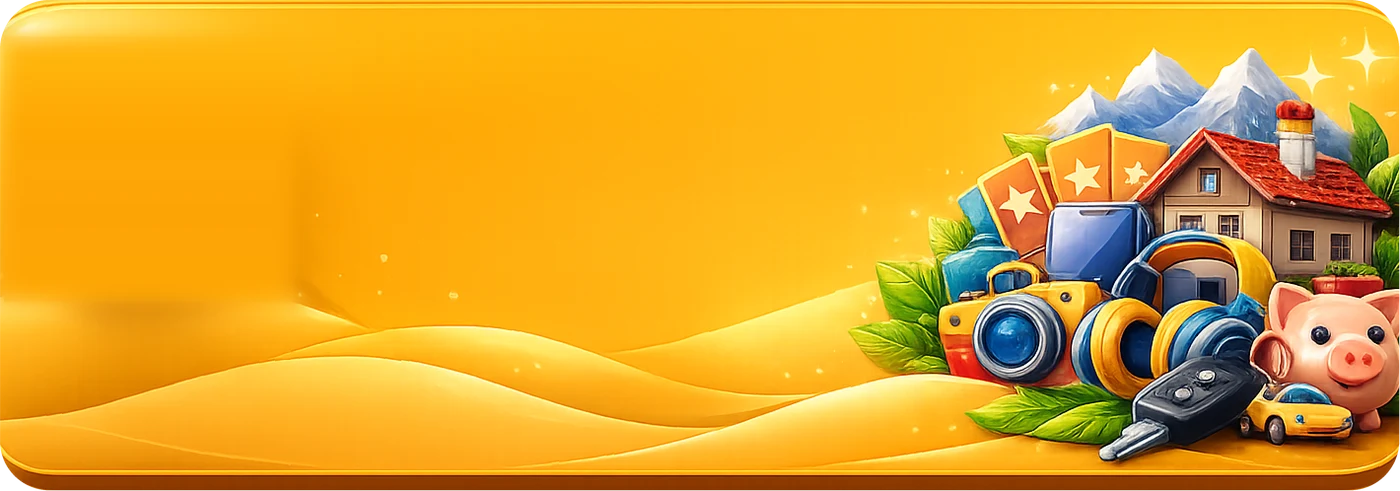
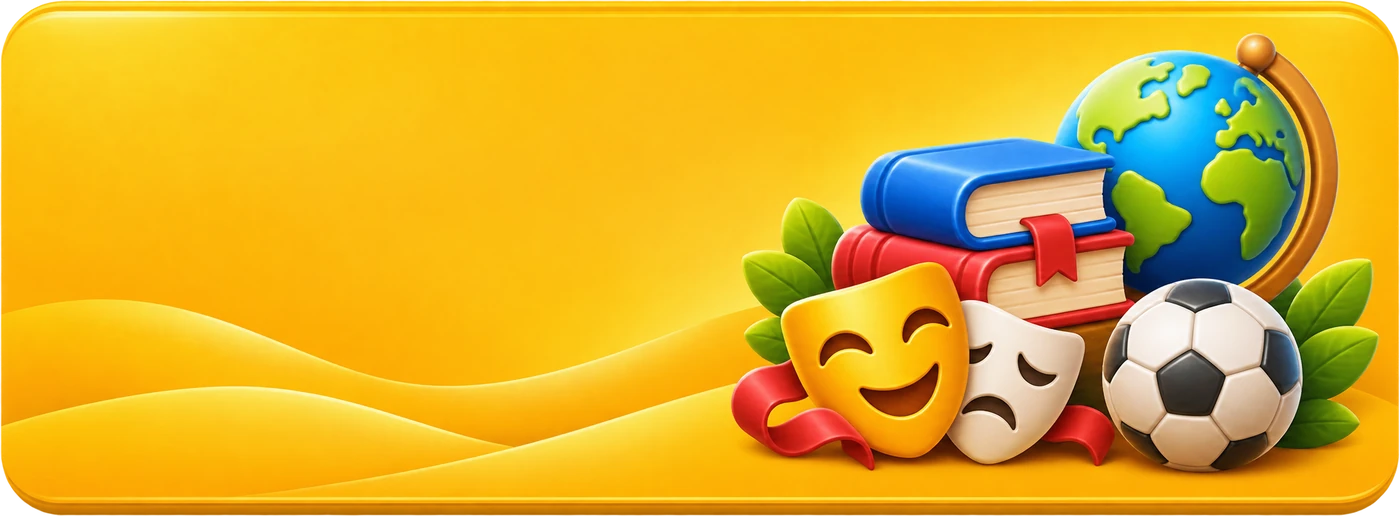
Neue Köpfe Alltag und Schweiz, Welt-Kopf weich, Spielwelt-Spiele im neuen Stil
Claude-Session: https://claude.ai/code/session_015F4ypguKCiePf7SvTB76p6

diff --git a/stil.js b/stil.js
@@ -910,16 +910,20 @@ html body #app .st-kopf.ep-kopf-welt{background:none!important;box-shadow:none!i
 html body #app .st-kopf.ep-kopf-welt::before{display:none!important}
 html body #app .st-kopf.ep-kopf-welt .st-kids{display:none!important}
 html body #app .st-kopf.ep-kopf-welt::after{content:"";position:absolute;right:20px;top:16px;bottom:16px;aspect-ratio:607/340;max-width:42%;z-index:0;pointer-events:none;
-  background:url("${G}kopf-welt-deko.webp?v=2") right center/contain no-repeat}
+  background:url("${G}kopf-welt-deko.webp?v=3") right center/contain no-repeat}
 html body #app .st-kopf.ep-kopf-welt>*{position:relative;z-index:1}
 html body #app .st-kopf.ep-kopf-natur{background:url("${G}kopf-natur.webp?v=1") right center/cover no-repeat!important;box-shadow:none!important;border:0!important;border-radius:28px!important;filter:drop-shadow(0 14px 22px rgba(10,90,50,.3));padding-right:30%!important}
 html body #app .st-kopf.ep-kopf-natur::before{display:none!important}
-html body #app .st-kopf.ep-kopf-geld{background:url("${G}kopf-geld.webp?v=1") right center/cover no-repeat!important;box-shadow:none!important;border:0!important;border-radius:28px!important;filter:drop-shadow(0 14px 22px rgba(120,10,20,.3));padding-right:30%!important}
+html body #app .st-kopf.ep-kopf-geld{background:url("${G}kopf-geld.webp?v=2") right center/cover no-repeat!important;box-shadow:none!important;border:0!important;border-radius:28px!important;filter:drop-shadow(0 14px 22px rgba(120,10,20,.3));padding-right:30%!important}
+html body #app .st-kopf.ep-kopf-geld :is(h1,h2,p){text-shadow:0 2px 4px rgba(100,0,10,.5)!important}
+@media (min-width:900px){html body #app .st-kopf:is(.ep-kopf-geld,.ep-kopf-alltag) .bhead h1{font-size:2.6rem!important}html body #app .st-kopf:is(.ep-kopf-geld,.ep-kopf-alltag) :is(.bhead h1,.bhead p,h1,p){max-width:50%!important}}
 html body #app .st-kopf.ep-kopf-geld::before,html body #app .st-kopf.ep-kopf-geld .st-kids{display:none!important}
 html body.ep-app #app .st-kopf.ep-kopf-geld{padding-right:24%!important;border-radius:20px!important}
-html body #app .st-kopf.ep-kopf-alltag{background:url("${G}kopf-alltag.webp?v=1") right center/cover no-repeat!important;box-shadow:none!important;border:0!important;border-radius:28px!important;filter:drop-shadow(0 14px 22px rgba(150,80,0,.3));padding-right:30%!important}
+html body #app .st-kopf.ep-kopf-alltag{background:url("${G}kopf-alltag.webp?v=2") right center/cover no-repeat!important;box-shadow:none!important;border:0!important;border-radius:28px!important;filter:drop-shadow(0 14px 22px rgba(150,80,0,.3));padding-right:30%!important}
 html body #app .st-kopf.ep-kopf-alltag::before,html body #app .st-kopf.ep-kopf-alltag .st-kids{display:none!important}
 html body #app .st-kopf.ep-kopf-alltag .bhead h1{text-shadow:0 2px 10px rgba(120,50,0,.45)!important}
+html body #app .st-kopf.ep-kopf-alltag :is(h1,h2,p,.bhead p){text-shadow:0 2px 3px rgba(110,50,0,.55),0 0 14px rgba(150,70,0,.35)!important}
+@media (min-width:900px){html body #app .st-kopf.ep-kopf-alltag html body #app .st-kopf.ep-kopf-alltag .bhead p{max-width:54%!important}}
 html body.ep-app #app .st-kopf.ep-kopf-alltag{padding-right:24%!important;border-radius:20px!important}
 html body #app .st-kopf.ep-kopf-natur .st-kids{display:none!important}
 html body.ep-app #app .st-kopf.ep-kopf-natur{padding-right:24%!important;border-radius:20px!important}
@@ -1500,4 +1504,40 @@ html[data-scr="live"] body #app .mode + .mode{border-image-source:url("${E}kache
   ${kopf.map(k => S1(k)).join(",")}{border-width:22px!important;border-image-width:22px!important}
   ${S1(".big.gold")},${S1(".big.alt")}{height:52px!important;min-width:0;border-width:15px 24px!important;border-image-width:15px 24px!important;font-size:.95rem!important}}`;
   const c = document.createElement("style"); c.id = "ep-weitere-seiten-css"; c.textContent = css; document.head.appendChild(c);
+})();
+
+/* ===== Spielwelt-Spiele (Bild-Rätsel, Reihenfolge, Zuordnen, Zeitstrahl) im neuen Stil ===== */
+(function(){
+  const E = "img/grafik/entdecken/", G = "img/grafik/", P = "html body #app .xsw-spiel";
+  const css = document.createElement("style");
+  css.textContent = `
+${P} .xsw-leiste{background:none!important;box-shadow:none!important;border:0 solid transparent!important;border-width:20px 24px!important;border-radius:0!important;
+  border-image:url("${E}kopf.webp?v=1") 50 fill / 20px 24px stretch!important;filter:drop-shadow(0 8px 14px rgba(60,30,160,.3));padding:0 4px 4px 0!important;min-height:0}
+${P} .xsw-titel{text-shadow:0 2px 4px rgba(30,10,80,.45);font-size:1.15rem}
+${P} .xsw-zur{background:#fff!important;color:#4A2B9A!important;box-shadow:0 3px 0 rgba(40,20,100,.25)}
+${P} .xsw-pille{background:rgba(255,255,255,.94)!important;color:#2A1F5C!important;border:3px solid #fff;border-radius:22px!important;font-weight:800;box-shadow:0 8px 18px rgba(40,30,120,.18)}
+${P} .xsw-rahmen{background:rgba(255,255,255,.9)!important;border:5px solid #fff;border-radius:28px!important;box-shadow:0 14px 30px rgba(40,30,120,.22)!important}
+${P} .xsw-nachweis{background:rgba(255,255,255,.85)!important;color:#3A3F66!important}
+${P} .xsw-nachweis a{color:#4A2B9A!important}
+${P} .xsw-optionen{gap:12px!important}
+${P} .xsw-opt{--ah:62px;--ab:url("img/qeels-antwort-a.webp");min-height:var(--ah)!important;background:none!important;box-shadow:none!important;border-radius:0!important;
+  border:0 solid transparent!important;border-width:calc(var(--ah)*.3) calc(var(--ah)*.5)!important;border-image:var(--ab) 48 80 fill / calc(var(--ah)*.3) calc(var(--ah)*.5) stretch!important;
+  padding:0 4px!important;color:#fff!important;text-shadow:0 1px 3px rgba(0,0,0,.45);font-size:1.05rem!important;filter:drop-shadow(0 5px 10px rgba(0,0,0,.25));transition:transform .12s,filter .12s;box-sizing:border-box}
+${P} .xsw-opt:nth-child(4n+2){--ab:url("img/qeels-antwort-b.webp")}
+${P} .xsw-opt:nth-child(4n+3){--ab:url("img/qeels-antwort-c.webp")}
+${P} .xsw-opt:nth-child(4n+4){--ab:url("img/qeels-antwort-d.webp")}
+${P} .xsw-opt:hover:not([disabled]){filter:brightness(1.08) drop-shadow(0 8px 14px rgba(0,0,0,.3));transform:translateY(-2px)}
+${P} .xsw-opt[disabled]:not(.richtig):not(.falsch){opacity:1;filter:grayscale(.7) brightness(.9) drop-shadow(0 3px 6px rgba(0,0,0,.2))}
+${P} .xsw-rueck{background:rgba(255,255,255,.95)!important;color:#2A1F5C!important;border:3px solid #fff;border-left:8px solid #E0344F!important;border-radius:22px!important;box-shadow:0 10px 22px rgba(40,30,120,.2)!important}
+${P} .xsw-rueck.gut{border-left-color:#13A57A!important}
+${P} .xsw-rueck small{color:#5A5F86!important}
+${P} .xsw-opt.richtig{opacity:1!important;filter:drop-shadow(0 0 12px rgba(59,255,142,.8))!important}
+${P} .xsw-opt.falsch{opacity:1!important;filter:drop-shadow(0 0 12px rgba(255,59,59,.75))!important}
+${P} .xsw-knopf:not(.xsw-hell){all:unset;box-sizing:border-box;display:inline-flex;align-items:center;justify-content:center;height:56px;padding:0 8px;cursor:pointer;
+  border:0 solid transparent;border-width:16px 28px;border-image:url("${G}knopf-gold.webp?v=1") 52 87 fill / 16px 28px stretch;color:#3A1C00;font:700 1.1rem Fredoka,Lexend,system-ui,sans-serif;filter:drop-shadow(0 4px 6px rgba(120,70,0,.25))}
+${P} .xsw-knopf.xsw-hell{all:unset;box-sizing:border-box;display:inline-flex;align-items:center;justify-content:center;height:56px;padding:0 8px;cursor:pointer;
+  border:0 solid transparent;border-width:16px 28px;border-image:url("${G}knopf-zurueck.webp?v=1") 70 118 fill / 16px 28px stretch;color:#28304A;font:800 1rem Lexend,system-ui,sans-serif;filter:drop-shadow(0 4px 6px rgba(40,30,120,.2))}
+${P} .xsw-knopf:focus-visible,${P} .xsw-opt:focus-visible{outline:3px solid #FFE34D;outline-offset:3px}
+@media (max-width:600px){${P} .xsw-opt{--ah:54px;font-size:.95rem!important}${P} .xsw-leiste{border-width:16px 18px!important;border-image-width:16px 18px!important}}`;
+  document.head.appendChild(css);
 })();

diff --git a/index.html b/index.html
@@ -74,7 +74,7 @@ html.ep-boot #epBoot{display:flex;position:fixed;inset:0;z-index:99999;flex-dire
 <link rel="preload" as="image" href="img/kinder.webp">
 <script>/* Versionsprüfung: Ist diese Seite älter als die veröffentlichte Version (alter Speicher, Browser-Cache,
    Homescreen-App), alles Alte löschen und einmal frisch laden. Höchstens einmal pro 10 Minuten. */
-window.EP_BUILD="ep-2026-11-01-20";
+window.EP_BUILD="ep-2026-11-01-21";
 (function(){ try{
   if(window.claude || window.EP_NATIV || !/^https?:$/.test(location.protocol)){ window.__epVer="ok"; return; }   /* App (alles eingebaut) und Vorschau: keine Prüfung */
   /* Prüft, ob auf dem Server eine neuere Version liegt. Läuft beim Laden UND jedes Mal, wenn die Seite

diff --git a/sw.js b/sw.js
@@ -2,7 +2,7 @@
    Sorgt für schnelle Wiederholungsbesuche und Offline-Nutzung.
    Bei jeder Änderung an der App-Hülle VERSION hochzählen, damit alte Caches gelöscht werden. */
 
-const VERSION = "ep-2026-11-01-20";
+const VERSION = "ep-2026-11-01-21";
 const CACHE_HUELLE = VERSION + "-huelle";   // App-Hülle, Code, Daten
 // Bilder in einem festen Speicher: überlebt Updates (nur bilder/, img/, flags/), wird täglich still geprüft
 const CACHE_BILDER = "ep-bilder";

diff --git a/CLAUDE.md b/CLAUDE.md
@@ -33,6 +33,7 @@ _(leer)_
 - 21.10. 12:35, Sitzung «Hauptseite»: Danke! PR #11 und #12 sind bei mir übernommen. Ich lasse die Qeels-Blöcke in `index.html` und `qeels/` dir und melde mich hier, bevor ich dort etwas ändere.
 
 ## Erledigt (neueste oben)
+- 01.11. Sitzung «Hauptseite»: (1) Neue Kopf-Grafiken von Dejan für die Bereiche Alltag & Kultur (`img/grafik/kopf-alltag.webp`, Bücher, Globus, Masken, Ball) und Schweiz, Geld & Leben (`kopf-geld.webp`, Fahne, Zug, Postauto, Chalet), Titel und Text dort auf halbe Breite. (2) Welt-Kopf: Deko-Bild hatte einen harten Rand, jetzt weich ausgeblendet (`kopf-welt-deko.webp`). (3) Spielwelt-Spiele im neuen Stil: Leiste auf Glanz-Kopf, Antworten wie im Quiz (Qeels-Antwortbilder), weisse Bild- und Fragekarten, goldene/weisse Grafik-Knöpfe, Rückmeldung als weisse Karte (Block «Spielwelt-Spiele» in `stil.js`). Version ep-2026-11-01-21.
 - 01.11. Sitzung «Hauptseite»: Neue Startseite, Bereichswahl: Symbole in der Mitte der vier Bereich-Kacheln grösser (100 px Feld, Bild 74 px, Handy 80/58), `neustart.js`. Version ep-2026-11-01-20.
 - 01.11. Sitzung «Hauptseite»: Farbsystem-Vorschlag verworfen (Dejan), `img/grafik/farben/` wieder entfernt. Es bleiben die 18 Glanz-Kacheln aus `entdecken/`. Version ep-2026-11-01-19.
 - 01.11. Sitzung «Hauptseite»: Farbsystem-Vorschlag: 8 Kacheln (`img/grafik/farben/kachel-<blau|violett|magenta|rot|orange|gruen|tuerkis|nacht>.webp`), aus `entdecken/kachel-15.webp` umgefärbt. Noch nicht eingesetzt, wartet auf Dejans OK. Version ep-2026-11-01-18.
